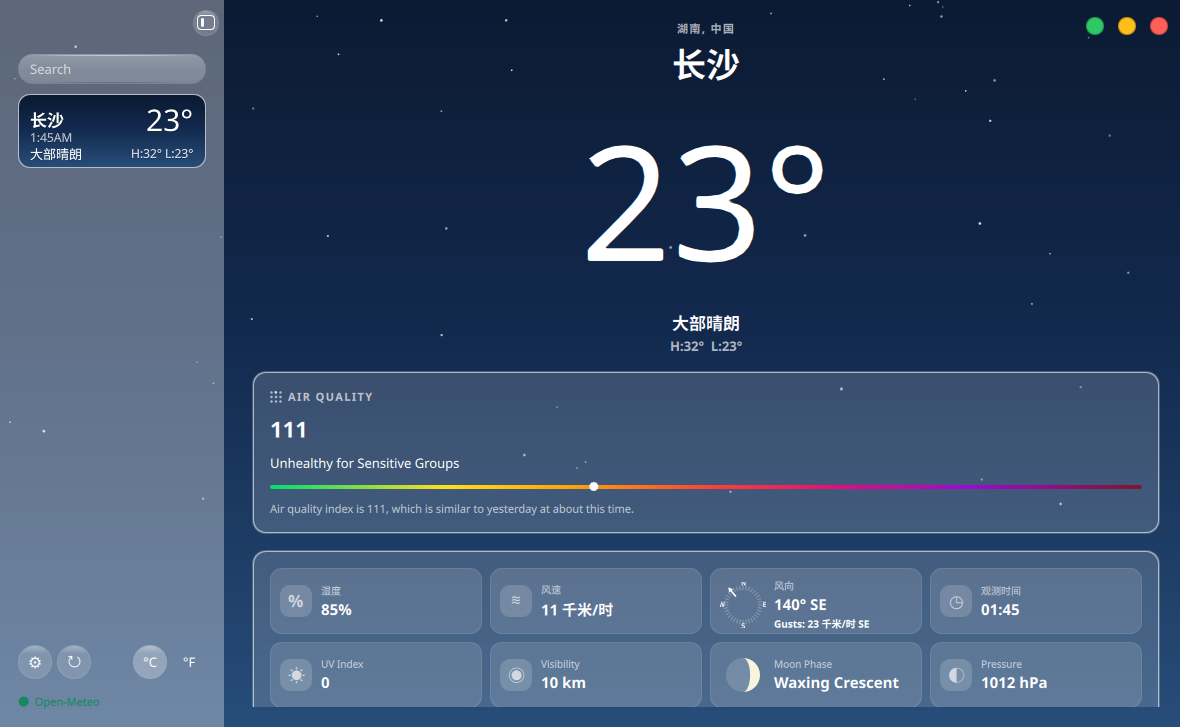
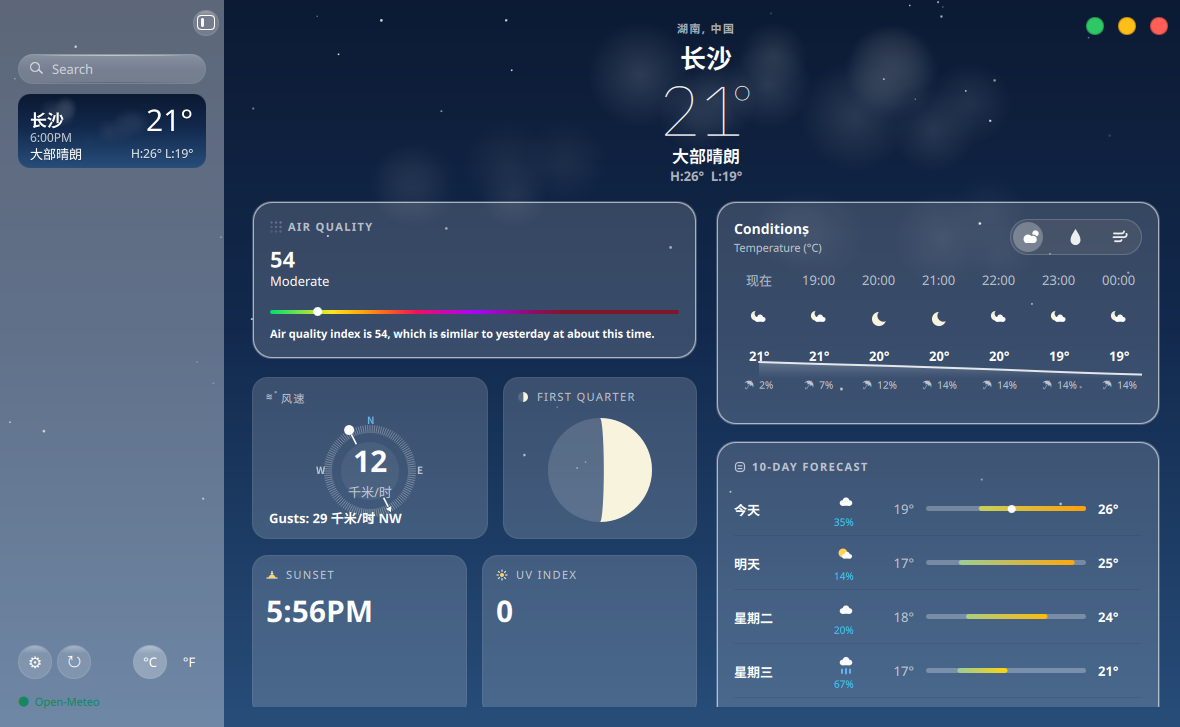
docs: round 40 进度与截图

diff --git a/docs/ui-weather/LEDGER.md b/docs/ui-weather/LEDGER.md
@@ -4,6 +4,12 @@
 参考实测色（814×498 主图采样）：天空 `#2961a7→#1469bc→#538ec9`（上→下，含云照片）；Conditions 卡 `#0057b2`；hero 文本 `#ffffff`；10天条渐变 青→黄→橙。
 
 ## 已改
+- **侧栏城市卡补程序化云纹理（本轮，前端，零 Go/C++/shared/翻译改动，巡检轮）**：巡检截图（tmp/shots/patrol-1792317724.png 过体检闸 ✅ 1180×727）对照 ref-main 发现侧栏残差——参考 tile-sidebar（440×996）5 张城市卡**全部**带天气质感天空背景（Cupertino/Chicago 日间白云团、Antarctica 灰蓝、Cape Town 紫暮、Mumbai 夜空暗纹理；Pillow 采样卡面 cupertino_top (142,155,179)→bot (193,214,232)、mumbai (36,40,66)→(47,52,80)），我方卡是纯三段渐变无纹理。`apps/weather/qml/Main.qml:272-297` 新增 root 函数 `sidebarCardClouds(cardIndex, isDay)`（mulberry32(20261022+index*97) 固定种子按卡号生成 3 朵云×4 puff，cloudWidth 70-130/height=width×0.3，透明度 isDay ? 0.32−i×0.07 : 0.13−i×0.07）；:1110 delegate 新增 `required property int index` + `cardClouds` 绑定；:1148-1200 background Rectangle（radius 12/渐变/border 零改动）内新增唯一子项 `cardSkyTexture`（clip + Accessible.ignored，Repeater+Canvas 径向渐变 puff 与 nightClearCloudLayer :668-708 同款画法）。
+  **门控裁定（首轮取证发现）**：首版门控 `isDay ? code>=2 : true` 在当前场景（code 1 大部晴朗）下纹理不渲染（改前后两帧 diff 全窗 maxdiff=2 = 纹理缺席实证；卡上"绒团"实为 21° 文字与渐变，(150,110)=(227,236,245) 系文字 AA）。因参考 5 卡全部有质感（含夜间）且主窗先例晴日也有云带，改为**恒显**（删 cardCloudy，Item 默认可见）。
+  **实测**（本轮二进制截图 tmp/shots/cardcloud2-1792318220.png 过体检闸 ✅ 1180×727，dev env + KOS_SCREENSHOT_DELAY_MS=2500；此时段服务已翻夜态，顺带验证夜分支）：夜卡 (14,32,63) 上云峰 (49,65,91) = **Δ+35/+33/+28**（白@~0.14，行 110 逐 6px 剖面实测，文字 255 像素剔除）——与 ref Mumbai 卡纹理幅度（mumbai mid→bot Δ~11-14）同档略强；目视 /tmp/z-post2-card.png 3x：淡云在场、文字可读、无硬边；整窗夜景（星空/夜卡/夜空淡云）健康。日分支透明度更高（0.32 档）本时段未实拍（服务已翻夜），记外推待确认。
+  **回归**：场景在本轮内日夜翻转（17:5x→18:00 日落边界），跨帧像素回归无同态基线——改前帧（patrol-1792317724，日间）与首轮改后帧（cardcloud-1792317999，同日间数据）diff 全窗 maxdiff=2 恰好实证门控缺陷（纹理未渲染时零变化），门控删除后夜卡纹理由逐像素剖面直接量化（见实测）。改动面仅 delegate background 新增子项（git diff +86 单文件），contentItem/渐变/radius 未动，无布局位移面。
+  **测试**：Qt 6/6 绿（env -u KOS_DATA_SOCKET）、go test ok。qmllint 0 error（21 warning = 基线）。本轮无动效改动，无帧差义务（纯静态纹理）。
+  **残差（记入外推待确认）**：见外推待确认"侧栏卡云纹理"条。
 - **逐小时首列当前小时显示 "Now"/现在（本轮，前端 + 翻译条目，零 Go/C++/shared 改动，巡检轮）**：巡检截图（tmp/shots/patrol-1792317129.png 过体检闸 ✅ 1180×727）对照 ref-main 发现 Conditions 卡逐小时首列残差——ref-main 首列标签实测为 **"Now"**（当前小时），其余列为小时时刻；我方首列直接渲染 "17:00"（`localTime`）。`apps/weather/qml/Main.qml:2767-2772` delegate 新增 `isCurrentHour`（快照 current.time 与该点 time 各取 `substring(0,13)` 小时前缀比较，对 current.time 分钟偏移鲁棒）；:2818-2819 时间 Label text 改 `isCurrentHour ? qsTr("Now") : localTime(...)`（color skyTextMuted/布局不动）；`apps/common/translations/kos_apps_zh_CN.ts:685-688` Main context 新增 `<source>Now</source>→现在`（构建 lrelease 281 条全成）。
   **连带修复（同类第 2 项，到此停手）**：首拍实证 CJK 回退字形行盒比数字高 ~2px（"现在"墨 274-285 vs "17:00" 274-283），ColumnLayout 把首列图标/温度推低 1-2px（温度墨顶 col1 351 vs col2 349，改前基线差为 +1）破坏列对齐——`Main.qml:2809-2811` 时间 Label 加 `Layout.preferredHeight: Math.ceil(font.pixelSize * 1.5)` + `verticalAlignment: Text.AlignVCenter` 钉死行盒，7 列几何恒等。
   **实测**（本轮二进制截图 tmp/shots/nowcol2-1792317544.png 过体检闸 ✅ 1180×727，dev env + KOS_SCREENSHOT_DELAY_MS=2500）：首列 "现在" 在场（/tmp/z-now-final.png 目视）；温度墨顶 col1 (352,364) vs col2-4 (351,366/368/369)——col1−col2 = **+1 与改前基线 (350 vs 349) 一致**（CJK 重排的额外 +1 消除，剩余系既有字形 AA 差）；曲线/☂行/分段控件不受影响。
@@ -325,6 +331,7 @@
 15. ~~**分段胶囊水滴 glyph 偏小**~~（**已做**，见已改首条——canvas 12×16→15×20 坐标 ×1.25，墨 8×11→9×15、相对比 0.306→0.417 vs ref 0.386；残差：宽 −1/高 +1 反向各 1px，AA 级不再动。**注意**：同族"云+日偏小"不成立（勿动）；风 glyph 邻域吻合（✓），两条防误改裁定继续有效）。
 
 ## 外推待确认
+- **侧栏卡云纹理（本轮新增）**：a) 参考卡背景是**照片**，云的具体形态/覆盖不可程序化逐点复刻——3 朵×4 puff 的 puff 云系主窗 clearSkyClouds/nightClearClouds 同族近似，透明度按"ref Mumbai 夜卡 Δ~11-14 / 我方夜 Δ+35 略强、Cupertino 日卡明显更亮"折中，若要求更贴照片需整体重校；b) **晴日卡（code 0-1 日间）形态系外推**——参考 5 卡全是多云/夜间/特殊天气，无晴日卡可对照，恒显门控下晴日卡会得到 0.32 档淡云带（依据=主窗晴日云带先例），日分支本时段未实拍（服务 18:00 翻夜），下次日间巡检顺带核；c) 多城时各卡种子不同（index 派生），卡间形态差异系程序化设定（ref 各卡来自真实城市照片），方向一致不可逐卡对照；d) 夜卡云上白字可读性实测通过（Δ+35 底上峰值白字），更高 opacity 档不再上调。
 - **逐小时首列 "Now"/现在的本地化与降级（本轮新增）**：a) ref-main 只证英文 "Now"，中文 "现在" 系 Apple zh 官方惯例外推；b) isCurrentHour 用 `substring(0,13)` 小时前缀比较——快照 current.time 与 hourly 首点跨小时边界（陈旧快照）时首列回落 "18:00" 形态不显 "Now"，属正确降级但未实拍；c) 行高钉死 `1.5×font.pixelSize` 系折算（比数字自然行盒高 ~1px，7 列整行均匀下移 1px、列间对齐不变）；d) en_US.ts 无 "Now" 条目（英文源串即显示值），若日后加其它 locale 需同步补条目。
 - **10 天行降水% 青蓝色值/夜景（本轮新增）**：色值取 ref-main 实测峰值 #3dcaf8（(61,202,248)@814 降采样稀释，真色更深，反解 ~#3CD6FF）——若日后拿到原生分辨率参考需校；夜间卡面下可读性未实拍（ref 无夜景，Apple 深色模式同用降水蓝的惯例系外推）；Conditions 卡逐小时 ☂ 行的伞 glyph 系无参考外推（ref 无该行），与 10 天行新形态（无伞）并存不一致是否统一待裁定。
 - **罗盘刻度环密度/带半径外推（本轮新增）**：ref 刻度带 r46-57（tile-cards 卡宽 223 比例 0.206-0.256）由对角线亮度剖面实测，但刻度根数不可数（降采样糊化+对角自相关无周期峰）——每 3°（120 根）系按"近连续羽化带"读感外推；我方带 r38-46 受卡高 162/Gusts 行约束为垂直缩放值，非卡宽比例直译；字母在带外 r50 vs 参考带内嵌；~~来向侧标记 ref 是圆头短针（3x 切片证据）vs 我方平头短线（上轮 814 证据）——指针形态修正候选下轮~~（**已收口**，见已改首条"圆头短针"；头径/头心半径的压缩折算残差移入该条残差 a/b）。刻度本色 ref 峰值仅高于卡面 +8~16 lum（糊化后），我方 白@0.30（+41 lum）偏亮可能，待更高分辨率参考再校。
